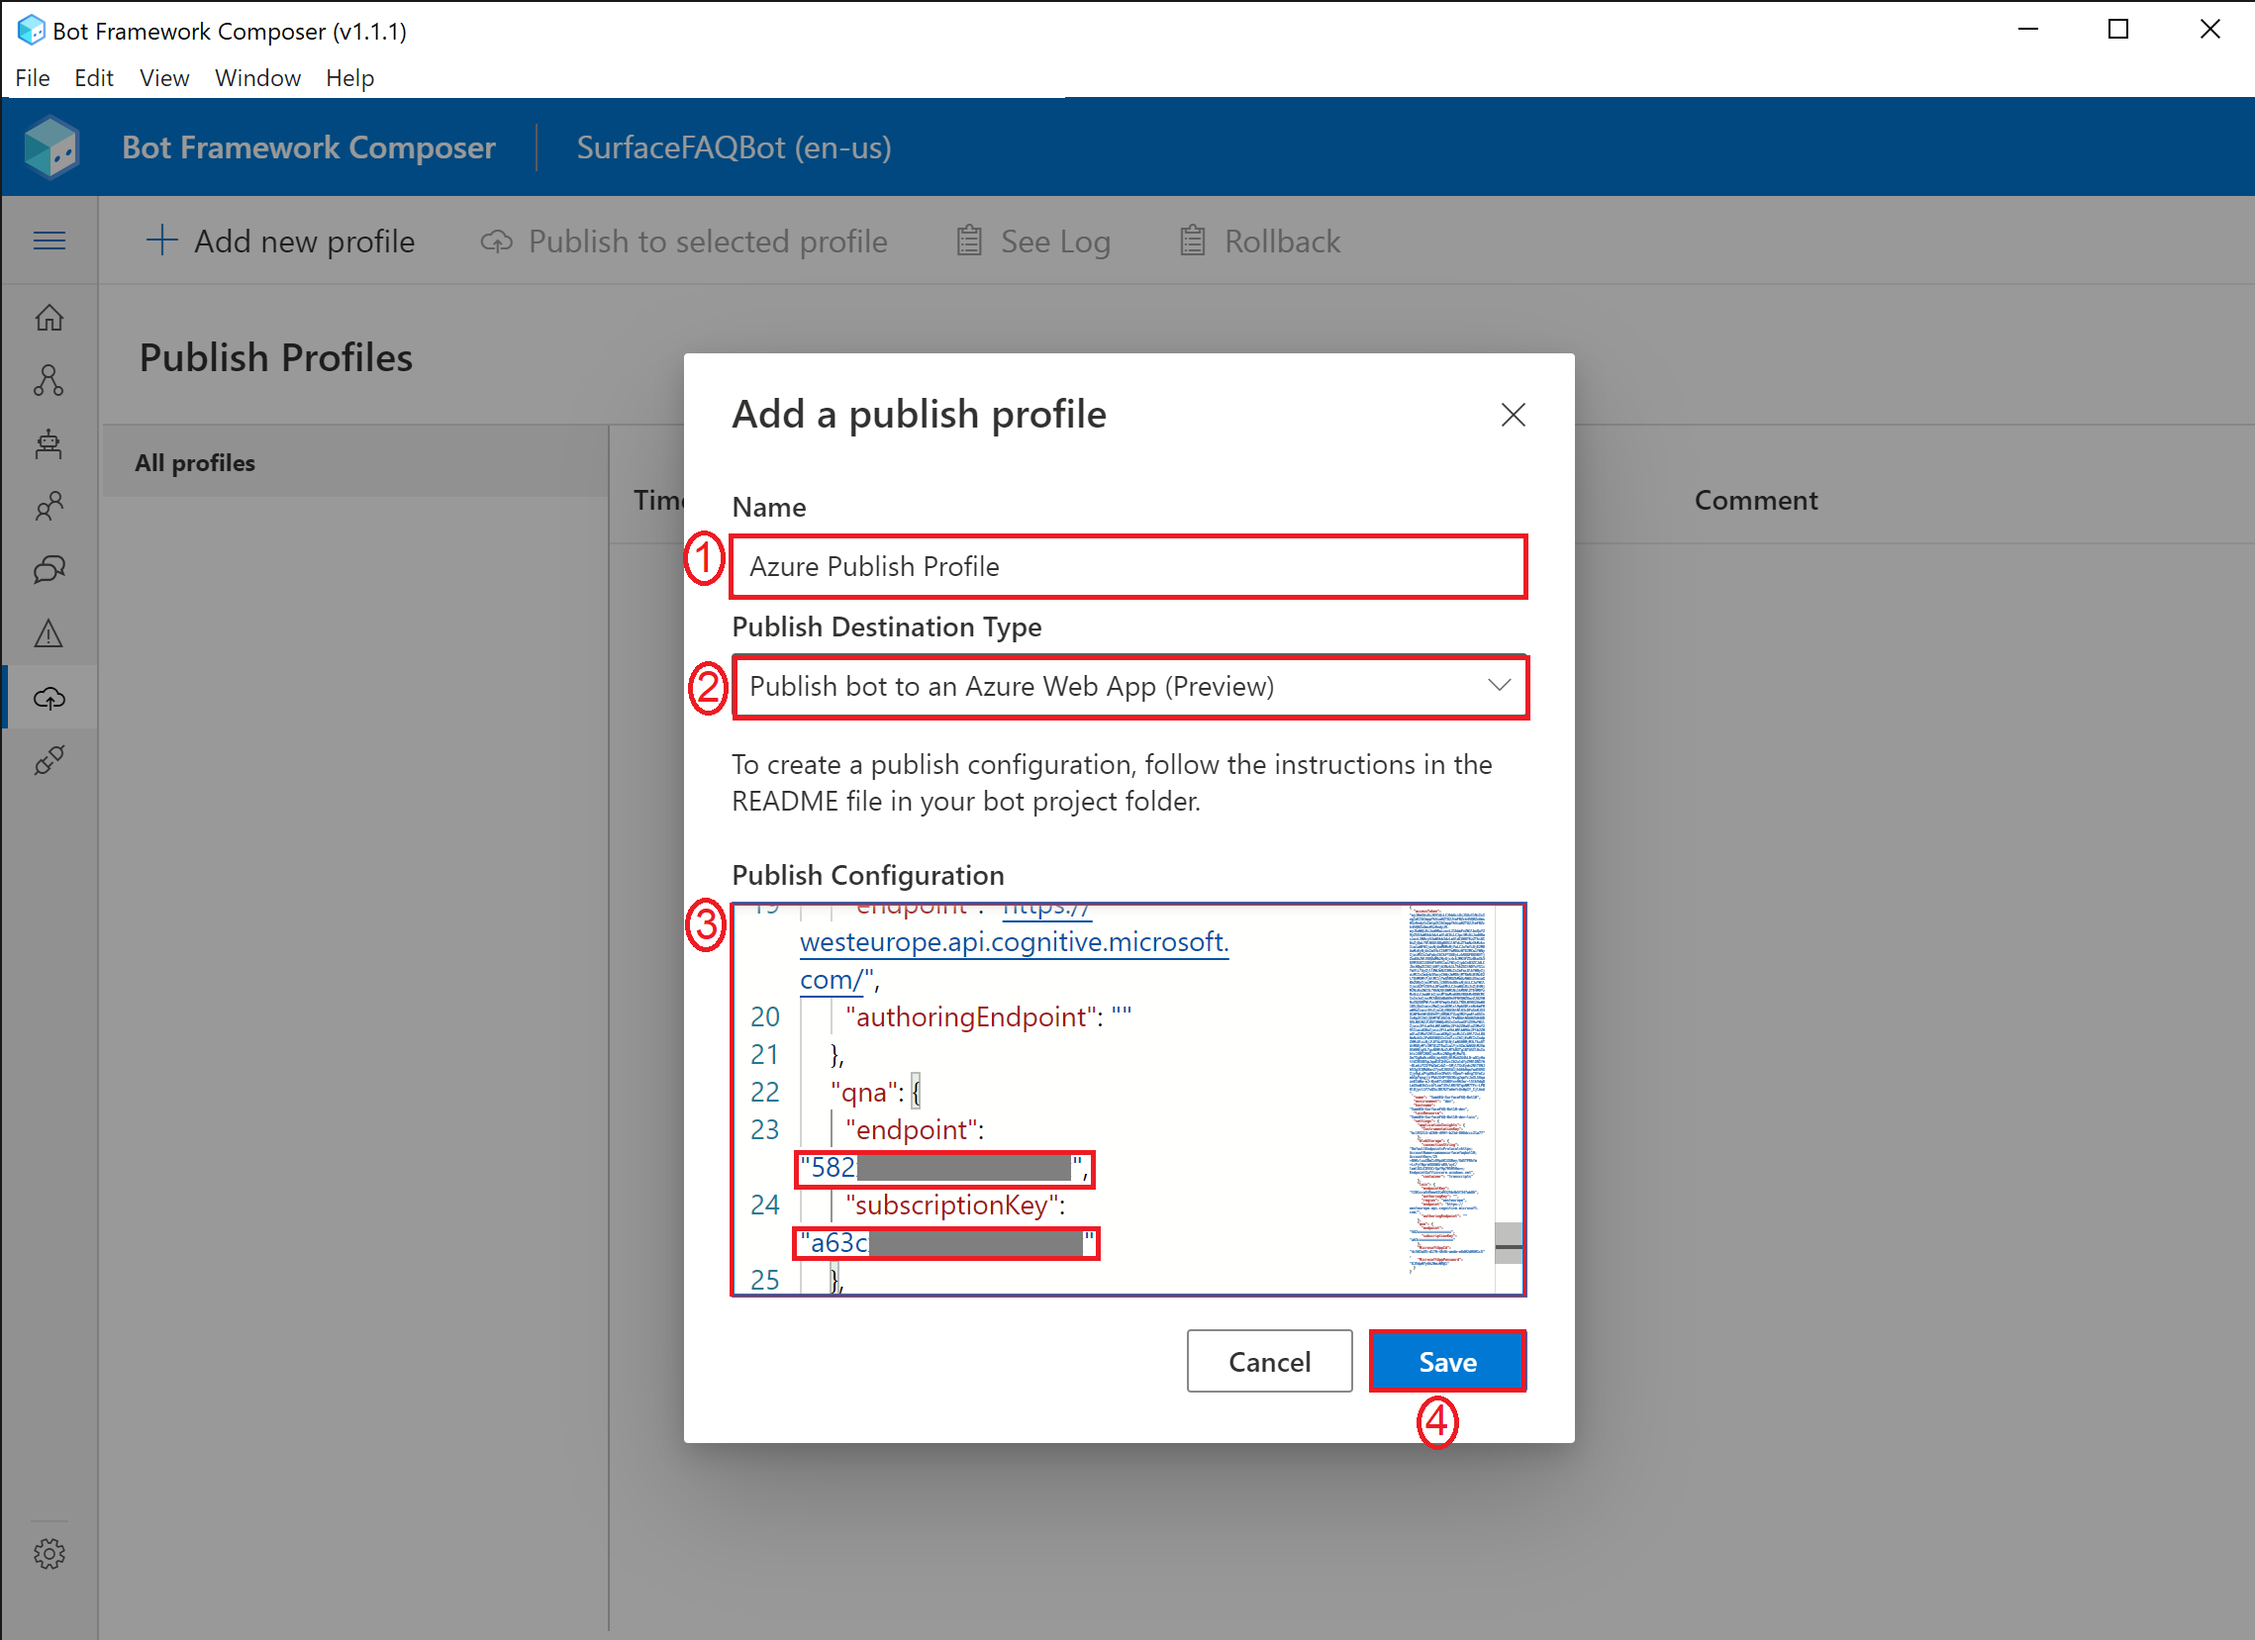
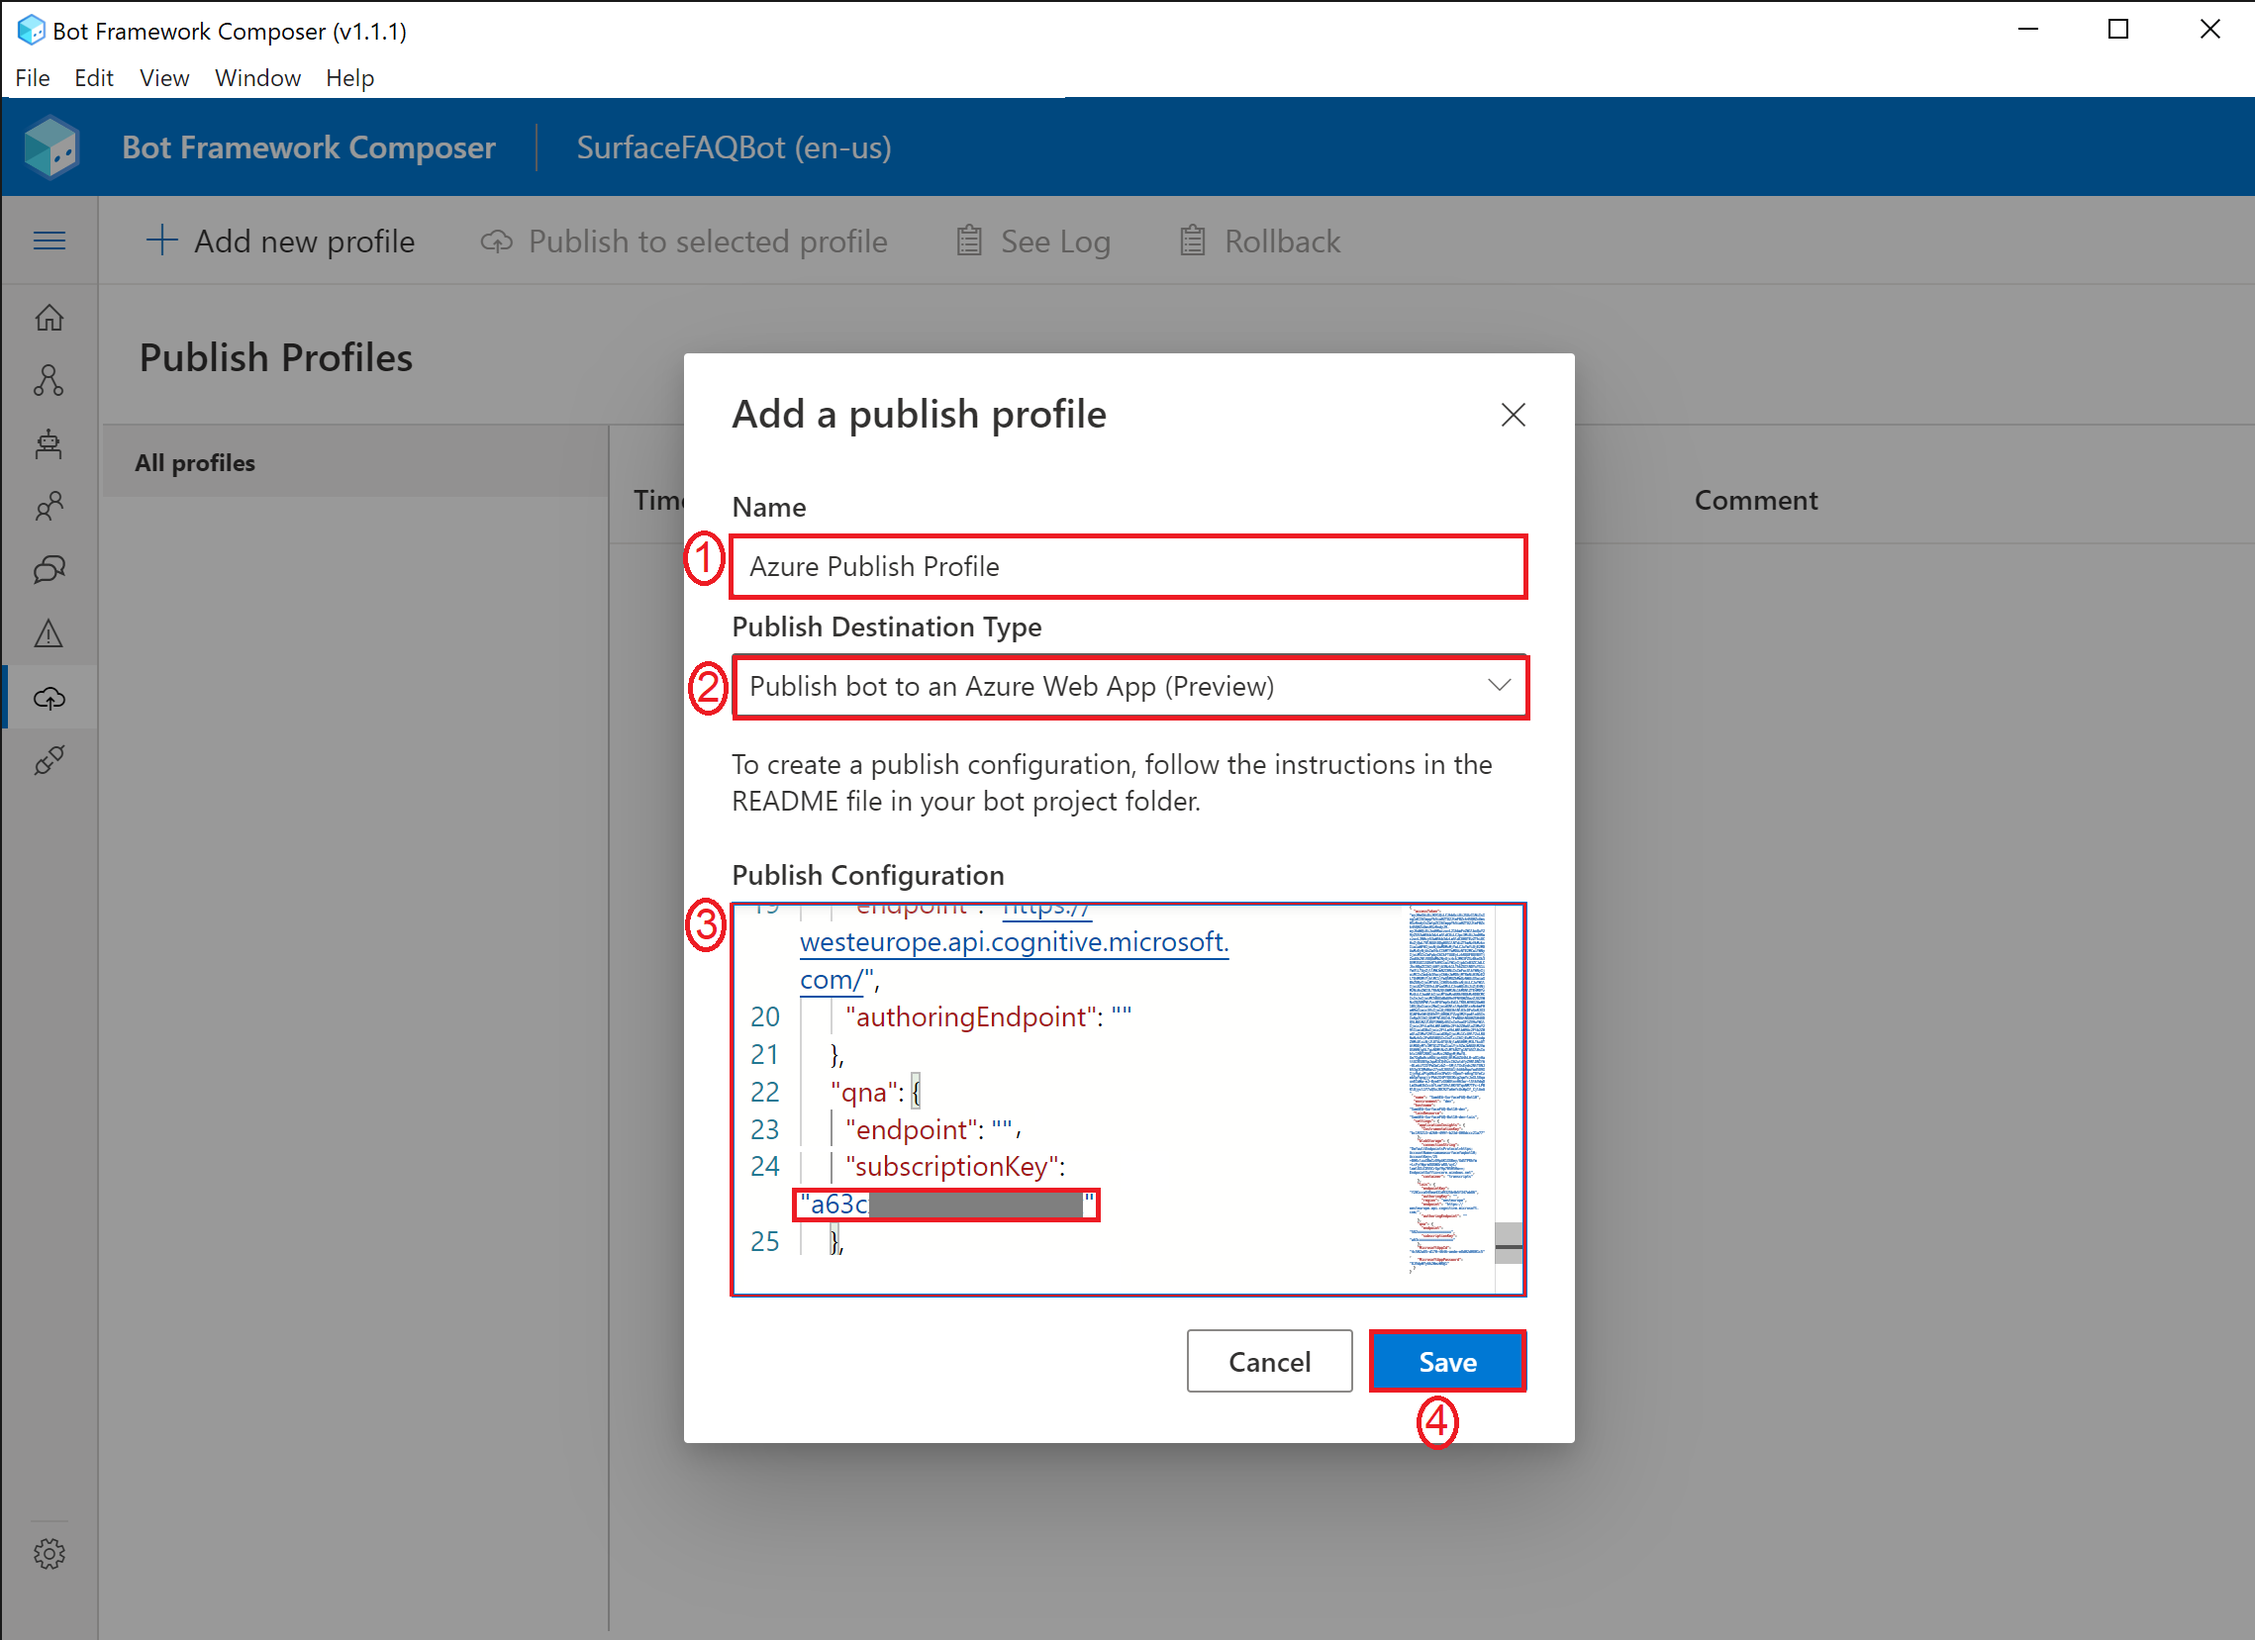
Updates.

Changed region(s): [[0.3428, 0.6771, 0.4987, 0.8002]]

diff --git a/README.md b/README.md
@@ -210,8 +210,7 @@ Bot Framework Composer is an open-source, visual authoring canvas for developers
       - For the **Name** give it any name e.g. **Azure Publish Profile**
       - For the **Publish Destination** select **Publish bot to an Azure Web App (Preview)**
       - **Paste** the JSON output from the previous step into the **Publish Configuration** field
-      - Locate the **endpoint** key in **Publish Configuration** and insert your **QnAMaker querying endpoint** key in between the two qoutations.
-      - Locate the **subscriptionKey** key underneath **endpoint** and insert your **QnAMaker authoring key**
+      - Locate the **subscriptionKey** key in **Publish Configuration** and insert your **QnAMaker authoring key**
       - Click **Save**
         ![Bot Framework Composer - Publish ](./images/BFComposer-9.png)      
       - Click on **Publish to select profile**
